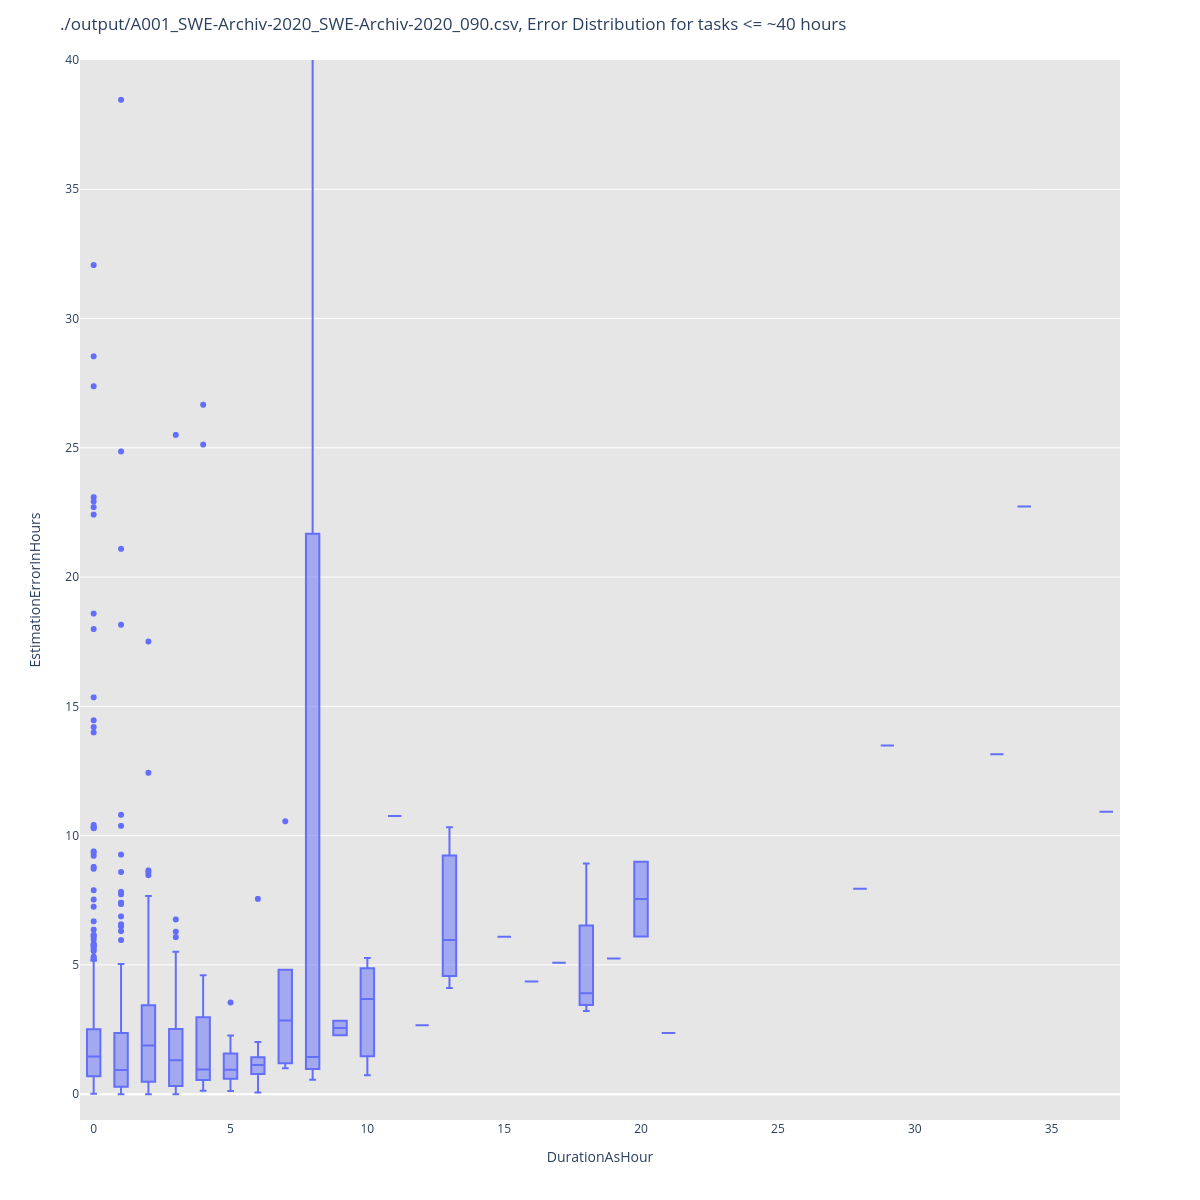
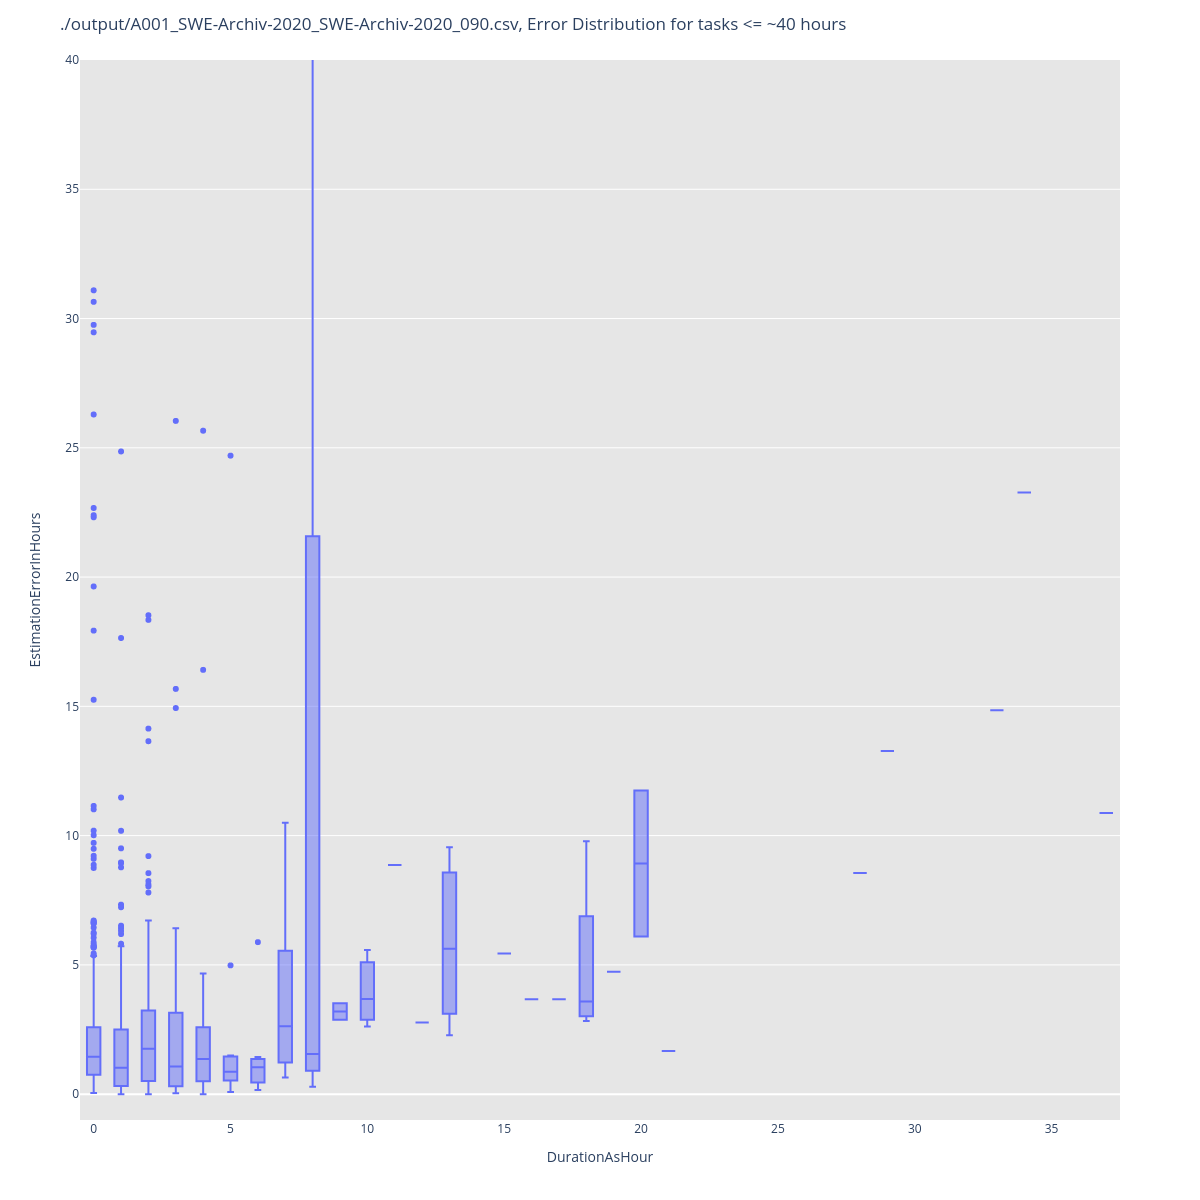
we only need the error distribution graphs to get insight in how good the algorithms are performing

diff --git a/Scripts/output/summary-graphs.tex b/Scripts/output/summary-graphs.tex
@@ -1,84 +1,28 @@
 \includegraphics[width=\textwidth]{Scripts/output/A001_SWE-Archiv-2020_SWE-Archiv-2020_025.csv.error_distribution.png}
-\includegraphics[width=\textwidth]{Scripts/output/A001_SWE-Archiv-2020_SWE-Archiv-2020_025.csv.png}
-\includegraphics[width=\textwidth]{Scripts/output/A001_SWE-Archiv-2020_SWE-Archiv-2020_025.csv.scatter.png}
 \includegraphics[width=\textwidth]{Scripts/output/A001_SWE-Archiv-2020_SWE-Archiv-2020_050.csv.error_distribution.png}
-\includegraphics[width=\textwidth]{Scripts/output/A001_SWE-Archiv-2020_SWE-Archiv-2020_050.csv.png}
-\includegraphics[width=\textwidth]{Scripts/output/A001_SWE-Archiv-2020_SWE-Archiv-2020_050.csv.scatter.png}
 \includegraphics[width=\textwidth]{Scripts/output/A001_SWE-Archiv-2020_SWE-Archiv-2020_075.csv.error_distribution.png}
-\includegraphics[width=\textwidth]{Scripts/output/A001_SWE-Archiv-2020_SWE-Archiv-2020_075.csv.png}
-\includegraphics[width=\textwidth]{Scripts/output/A001_SWE-Archiv-2020_SWE-Archiv-2020_075.csv.scatter.png}
 \includegraphics[width=\textwidth]{Scripts/output/A001_SWE-Archiv-2020_SWE-Archiv-2020_080.csv.error_distribution.png}
-\includegraphics[width=\textwidth]{Scripts/output/A001_SWE-Archiv-2020_SWE-Archiv-2020_080.csv.png}
-\includegraphics[width=\textwidth]{Scripts/output/A001_SWE-Archiv-2020_SWE-Archiv-2020_080.csv.scatter.png}
 \includegraphics[width=\textwidth]{Scripts/output/A001_SWE-Archiv-2020_SWE-Archiv-2020_090.csv.error_distribution.png}
-\includegraphics[width=\textwidth]{Scripts/output/A001_SWE-Archiv-2020_SWE-Archiv-2020_090.csv.png}
-\includegraphics[width=\textwidth]{Scripts/output/A001_SWE-Archiv-2020_SWE-Archiv-2020_090.csv.scatter.png}
 \includegraphics[width=\textwidth]{Scripts/output/A001_SWE-Archiv-2020_SWE-Archiv-2020_099.csv.error_distribution.png}
-\includegraphics[width=\textwidth]{Scripts/output/A001_SWE-Archiv-2020_SWE-Archiv-2020_099.csv.png}
-\includegraphics[width=\textwidth]{Scripts/output/A001_SWE-Archiv-2020_SWE-Archiv-2020_099.csv.scatter.png}
 \includegraphics[width=\textwidth]{Scripts/output/A001_SWE-Archiv-2020_SWE-Archiv-2021_025.csv.error_distribution.png}
-\includegraphics[width=\textwidth]{Scripts/output/A001_SWE-Archiv-2020_SWE-Archiv-2021_025.csv.png}
-\includegraphics[width=\textwidth]{Scripts/output/A001_SWE-Archiv-2020_SWE-Archiv-2021_025.csv.scatter.png}
 \includegraphics[width=\textwidth]{Scripts/output/A001_SWE-Archiv-2020_SWE-Archiv-2021_050.csv.error_distribution.png}
-\includegraphics[width=\textwidth]{Scripts/output/A001_SWE-Archiv-2020_SWE-Archiv-2021_050.csv.png}
-\includegraphics[width=\textwidth]{Scripts/output/A001_SWE-Archiv-2020_SWE-Archiv-2021_050.csv.scatter.png}
 \includegraphics[width=\textwidth]{Scripts/output/A001_SWE-Archiv-2020_SWE-Archiv-2021_075.csv.error_distribution.png}
-\includegraphics[width=\textwidth]{Scripts/output/A001_SWE-Archiv-2020_SWE-Archiv-2021_075.csv.png}
-\includegraphics[width=\textwidth]{Scripts/output/A001_SWE-Archiv-2020_SWE-Archiv-2021_075.csv.scatter.png}
 \includegraphics[width=\textwidth]{Scripts/output/A001_SWE-Archiv-2020_SWE-Archiv-2021_080.csv.error_distribution.png}
-\includegraphics[width=\textwidth]{Scripts/output/A001_SWE-Archiv-2020_SWE-Archiv-2021_080.csv.png}
-\includegraphics[width=\textwidth]{Scripts/output/A001_SWE-Archiv-2020_SWE-Archiv-2021_080.csv.scatter.png}
 \includegraphics[width=\textwidth]{Scripts/output/A001_SWE-Archiv-2020_SWE-Archiv-2021_090.csv.error_distribution.png}
-\includegraphics[width=\textwidth]{Scripts/output/A001_SWE-Archiv-2020_SWE-Archiv-2021_090.csv.png}
-\includegraphics[width=\textwidth]{Scripts/output/A001_SWE-Archiv-2020_SWE-Archiv-2021_090.csv.scatter.png}
 \includegraphics[width=\textwidth]{Scripts/output/A001_SWE-Archiv-2020_SWE-Archiv-2021_099.csv.error_distribution.png}
-\includegraphics[width=\textwidth]{Scripts/output/A001_SWE-Archiv-2020_SWE-Archiv-2021_099.csv.png}
-\includegraphics[width=\textwidth]{Scripts/output/A001_SWE-Archiv-2020_SWE-Archiv-2021_099.csv.scatter.png}
 \includegraphics[width=\textwidth]{Scripts/output/A002_1_SWE-Archiv-2020_SWE-Archiv-2020_.csv.error_distribution.png}
-\includegraphics[width=\textwidth]{Scripts/output/A002_1_SWE-Archiv-2020_SWE-Archiv-2020_.csv.png}
-\includegraphics[width=\textwidth]{Scripts/output/A002_1_SWE-Archiv-2020_SWE-Archiv-2020_.csv.scatter.png}
 \includegraphics[width=\textwidth]{Scripts/output/A002_1_SWE-Archiv-2020_SWE-Archiv-2021_.csv.error_distribution.png}
-\includegraphics[width=\textwidth]{Scripts/output/A002_1_SWE-Archiv-2020_SWE-Archiv-2021_.csv.png}
-\includegraphics[width=\textwidth]{Scripts/output/A002_1_SWE-Archiv-2020_SWE-Archiv-2021_.csv.scatter.png}
 \includegraphics[width=\textwidth]{Scripts/output/A002_2_SWE-Archiv-2020_SWE-Archiv-2020_025.csv.error_distribution.png}
-\includegraphics[width=\textwidth]{Scripts/output/A002_2_SWE-Archiv-2020_SWE-Archiv-2020_025.csv.png}
-\includegraphics[width=\textwidth]{Scripts/output/A002_2_SWE-Archiv-2020_SWE-Archiv-2020_025.csv.scatter.png}
 \includegraphics[width=\textwidth]{Scripts/output/A002_2_SWE-Archiv-2020_SWE-Archiv-2020_050.csv.error_distribution.png}
-\includegraphics[width=\textwidth]{Scripts/output/A002_2_SWE-Archiv-2020_SWE-Archiv-2020_050.csv.png}
-\includegraphics[width=\textwidth]{Scripts/output/A002_2_SWE-Archiv-2020_SWE-Archiv-2020_050.csv.scatter.png}
 \includegraphics[width=\textwidth]{Scripts/output/A002_2_SWE-Archiv-2020_SWE-Archiv-2020_075.csv.error_distribution.png}
-\includegraphics[width=\textwidth]{Scripts/output/A002_2_SWE-Archiv-2020_SWE-Archiv-2020_075.csv.png}
-\includegraphics[width=\textwidth]{Scripts/output/A002_2_SWE-Archiv-2020_SWE-Archiv-2020_075.csv.scatter.png}
 \includegraphics[width=\textwidth]{Scripts/output/A002_2_SWE-Archiv-2020_SWE-Archiv-2020_085.csv.error_distribution.png}
-\includegraphics[width=\textwidth]{Scripts/output/A002_2_SWE-Archiv-2020_SWE-Archiv-2020_085.csv.png}
-\includegraphics[width=\textwidth]{Scripts/output/A002_2_SWE-Archiv-2020_SWE-Archiv-2020_085.csv.scatter.png}
 \includegraphics[width=\textwidth]{Scripts/output/A002_2_SWE-Archiv-2020_SWE-Archiv-2020_095.csv.error_distribution.png}
-\includegraphics[width=\textwidth]{Scripts/output/A002_2_SWE-Archiv-2020_SWE-Archiv-2020_095.csv.png}
-\includegraphics[width=\textwidth]{Scripts/output/A002_2_SWE-Archiv-2020_SWE-Archiv-2020_095.csv.scatter.png}
 \includegraphics[width=\textwidth]{Scripts/output/A002_2_SWE-Archiv-2020_SWE-Archiv-2021_025.csv.error_distribution.png}
-\includegraphics[width=\textwidth]{Scripts/output/A002_2_SWE-Archiv-2020_SWE-Archiv-2021_025.csv.png}
-\includegraphics[width=\textwidth]{Scripts/output/A002_2_SWE-Archiv-2020_SWE-Archiv-2021_025.csv.scatter.png}
 \includegraphics[width=\textwidth]{Scripts/output/A002_2_SWE-Archiv-2020_SWE-Archiv-2021_050.csv.error_distribution.png}
-\includegraphics[width=\textwidth]{Scripts/output/A002_2_SWE-Archiv-2020_SWE-Archiv-2021_050.csv.png}
-\includegraphics[width=\textwidth]{Scripts/output/A002_2_SWE-Archiv-2020_SWE-Archiv-2021_050.csv.scatter.png}
 \includegraphics[width=\textwidth]{Scripts/output/A002_2_SWE-Archiv-2020_SWE-Archiv-2021_075.csv.error_distribution.png}
-\includegraphics[width=\textwidth]{Scripts/output/A002_2_SWE-Archiv-2020_SWE-Archiv-2021_075.csv.png}
-\includegraphics[width=\textwidth]{Scripts/output/A002_2_SWE-Archiv-2020_SWE-Archiv-2021_075.csv.scatter.png}
 \includegraphics[width=\textwidth]{Scripts/output/A002_2_SWE-Archiv-2020_SWE-Archiv-2021_085.csv.error_distribution.png}
-\includegraphics[width=\textwidth]{Scripts/output/A002_2_SWE-Archiv-2020_SWE-Archiv-2021_085.csv.png}
-\includegraphics[width=\textwidth]{Scripts/output/A002_2_SWE-Archiv-2020_SWE-Archiv-2021_085.csv.scatter.png}
 \includegraphics[width=\textwidth]{Scripts/output/A002_2_SWE-Archiv-2020_SWE-Archiv-2021_095.csv.error_distribution.png}
-\includegraphics[width=\textwidth]{Scripts/output/A002_2_SWE-Archiv-2020_SWE-Archiv-2021_095.csv.png}
-\includegraphics[width=\textwidth]{Scripts/output/A002_2_SWE-Archiv-2020_SWE-Archiv-2021_095.csv.scatter.png}
 \includegraphics[width=\textwidth]{Scripts/output/A003_1_SWE-Archiv-2020_SWE-Archiv-2020_.csv.error_distribution.png}
-\includegraphics[width=\textwidth]{Scripts/output/A003_1_SWE-Archiv-2020_SWE-Archiv-2020_.csv.png}
-\includegraphics[width=\textwidth]{Scripts/output/A003_1_SWE-Archiv-2020_SWE-Archiv-2020_.csv.scatter.png}
 \includegraphics[width=\textwidth]{Scripts/output/A003_1_SWE-Archiv-2020_SWE-Archiv-2021_.csv.error_distribution.png}
-\includegraphics[width=\textwidth]{Scripts/output/A003_1_SWE-Archiv-2020_SWE-Archiv-2021_.csv.png}
-\includegraphics[width=\textwidth]{Scripts/output/A003_1_SWE-Archiv-2020_SWE-Archiv-2021_.csv.scatter.png}
 \includegraphics[width=\textwidth]{Scripts/output/A004_SWE-Archiv-2020_SWE-Archiv-2020_.csv.error_distribution.png}
-\includegraphics[width=\textwidth]{Scripts/output/A004_SWE-Archiv-2020_SWE-Archiv-2020_.csv.png}
-\includegraphics[width=\textwidth]{Scripts/output/A004_SWE-Archiv-2020_SWE-Archiv-2020_.csv.scatter.png}
 \includegraphics[width=\textwidth]{Scripts/output/A004_SWE-Archiv-2020_SWE-Archiv-2021_.csv.error_distribution.png}
-\includegraphics[width=\textwidth]{Scripts/output/A004_SWE-Archiv-2020_SWE-Archiv-2021_.csv.png}
-\includegraphics[width=\textwidth]{Scripts/output/A004_SWE-Archiv-2020_SWE-Archiv-2021_.csv.scatter.png}

diff --git a/Scripts/output/summary-table.tex b/Scripts/output/summary-table.tex
@@ -2,18 +2,18 @@
 \hline
  Algorithm   & Training on         & Estimating          &   with params &                 deviation &     mse \\
 \hline
- A001        & SWE-Archiv-2020.csv & SWE-Archiv-2020.csv &         25\%P &  -1.287 $\pm$ 6.847 hours &  48.489 \\
- A001        & SWE-Archiv-2020.csv & SWE-Archiv-2020.csv &         50\%P &  -0.947 $\pm$ 6.892 hours &  48.343 \\
- A001        & SWE-Archiv-2020.csv & SWE-Archiv-2020.csv &         75\%P &  -0.045 $\pm$ 6.169 hours &  38.027 \\
- A001        & SWE-Archiv-2020.csv & SWE-Archiv-2020.csv &         80\%P &   0.406 $\pm$ 5.567 hours &  31.122 \\
- A001        & SWE-Archiv-2020.csv & SWE-Archiv-2020.csv &         90\%P &   1.950 $\pm$ 6.591 hours &  47.203 \\
- A001        & SWE-Archiv-2020.csv & SWE-Archiv-2020.csv &         99\%P & 11.606 $\pm$ 14.840 hours & 354.698 \\
- A001        & SWE-Archiv-2020.csv & SWE-Archiv-2021.csv &         25\%P & -1.542 $\pm$ 12.133 hours & 149.458 \\
- A001        & SWE-Archiv-2020.csv & SWE-Archiv-2021.csv &         50\%P & -1.315 $\pm$ 12.128 hours & 148.693 \\
- A001        & SWE-Archiv-2020.csv & SWE-Archiv-2021.csv &         75\%P & -0.625 $\pm$ 12.213 hours & 149.425 \\
- A001        & SWE-Archiv-2020.csv & SWE-Archiv-2021.csv &         80\%P & -0.323 $\pm$ 12.214 hours & 149.174 \\
- A001        & SWE-Archiv-2020.csv & SWE-Archiv-2021.csv &         90\%P &  0.895 $\pm$ 12.482 hours &  156.47 \\
- A001        & SWE-Archiv-2020.csv & SWE-Archiv-2021.csv &         99\%P &  9.917 $\pm$ 18.276 hours & 432.079 \\
+ A001        & SWE-Archiv-2020.csv & SWE-Archiv-2020.csv &         25\%P &  -1.296 $\pm$ 6.833 hours &  48.328 \\
+ A001        & SWE-Archiv-2020.csv & SWE-Archiv-2020.csv &         50\%P &  -0.912 $\pm$ 6.407 hours &  41.838 \\
+ A001        & SWE-Archiv-2020.csv & SWE-Archiv-2020.csv &         75\%P &   0.018 $\pm$ 5.706 hours &  32.525 \\
+ A001        & SWE-Archiv-2020.csv & SWE-Archiv-2020.csv &         80\%P &   0.381 $\pm$ 5.543 hours &  30.836 \\
+ A001        & SWE-Archiv-2020.csv & SWE-Archiv-2020.csv &         90\%P &   1.899 $\pm$ 6.411 hours &  44.668 \\
+ A001        & SWE-Archiv-2020.csv & SWE-Archiv-2020.csv &         99\%P & 11.592 $\pm$ 14.392 hours & 341.321 \\
+ A001        & SWE-Archiv-2020.csv & SWE-Archiv-2021.csv &         25\%P & -1.541 $\pm$ 12.131 hours &  149.42 \\
+ A001        & SWE-Archiv-2020.csv & SWE-Archiv-2021.csv &         50\%P & -1.317 $\pm$ 12.123 hours & 148.585 \\
+ A001        & SWE-Archiv-2020.csv & SWE-Archiv-2021.csv &         75\%P & -0.630 $\pm$ 12.201 hours & 149.138 \\
+ A001        & SWE-Archiv-2020.csv & SWE-Archiv-2021.csv &         80\%P & -0.290 $\pm$ 12.266 hours & 150.417 \\
+ A001        & SWE-Archiv-2020.csv & SWE-Archiv-2021.csv &         90\%P &  0.938 $\pm$ 12.514 hours & 157.361 \\
+ A001        & SWE-Archiv-2020.csv & SWE-Archiv-2021.csv &         99\%P & 10.059 $\pm$ 18.762 hours & 452.909 \\
  A002.1      & SWE-Archiv-2020.csv & SWE-Archiv-2020.csv &               &  -0.000 $\pm$ 7.691 hours &    59.1 \\
  A002.1      & SWE-Archiv-2020.csv & SWE-Archiv-2021.csv &               &  0.085 $\pm$ 12.136 hours & 147.164 \\
  A002.2      & SWE-Archiv-2020.csv & SWE-Archiv-2020.csv &        L25\%P &   0.049 $\pm$ 7.691 hours &  59.102 \\

diff --git a/Scripts/execute.py b/Scripts/execute.py
@@ -18,8 +18,8 @@ def analyse(algorithm, trainingOn, estimating, parameter, filename):
     
     df = analytics.grab_data.grab_prepared_data(filename)
 
-    hl.create_image_scatterHours(filename, df)
-    hl.create_image_boxplot(filename, df)
+    #hl.create_image_scatterHours(filename, df)
+    #hl.create_image_boxplot(filename, df)
     hl.create_image_error_distribution(filename, df)
     hl.create_statistics(algorithm, trainingOn, estimating, parameter, filename, df)
 
